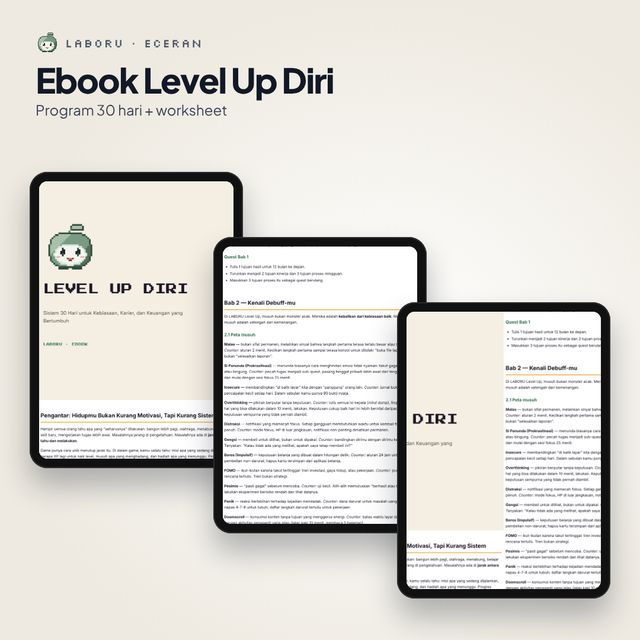
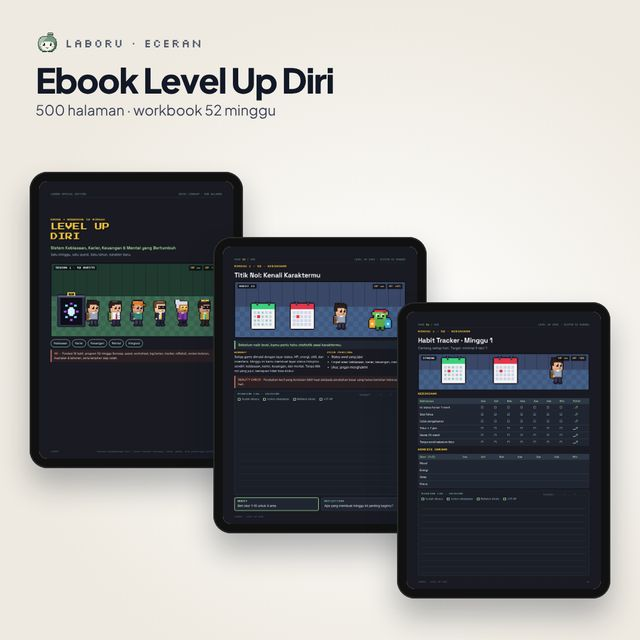
Landing: ebook FFZ & Level Up Diri kini 500 halaman lengkap
Claude-Session: https://claude.ai/code/session_0122FfDQZ8PtsKwzUo9nUhtx

diff --git a/index.html b/index.html
@@ -267,7 +267,7 @@ footer{background:#0a1120;color:#aeb9cf;font-size:13.5px;padding:28px 0 96px}foo
    <ul>
     <li><b>Semua isi Core</b> + aplikasi <b>PRO</b>: Financial Freedom, Weekly To-Do, Budget 50/30/20, Ruang Investasi</li>
     <li><b>LABO Asisten (Companion)</b>: peliharaan virtual interaktif</li>
-    <li><b>Ebook From Zero to Financial Freedom</b> Vol. 1 + Level Up Diri</li>
+    <li><b>2 ebook 500 halaman</b>: From Zero to Financial Freedom + Level Up Diri</li>
     <li><b>Company Preparation System</b>: hub + 390+ dokumen</li>
     <li><b>Company Improvement System</b> + roadmap 90 hari</li>
    </ul>
@@ -293,8 +293,8 @@ footer{background:#0a1120;color:#aeb9cf;font-size:13.5px;padding:28px 0 96px}foo
  <div class="reveal">
   <div class="k">Baru · Ebook pixel-art</div>
   <h2>From Zero to <em>Financial Freedom</em></h2>
-  <p class="lead">Ensiklopedia 500 halaman yang diterbitkan bertahap. Volume 1 membahas realitas hidup & uang dan jebakan finansial yang tidak terlihat — dengan simulasi angka, decision room, dan workbook.</p>
-  <ul style="padding-left:20px;margin:0 0 20px"><li>61 halaman, ilustrasi pixel art, siap dibaca di HP atau dicetak</li><li>Master Page Blueprint 500 halaman (PDF + Excel)</li><li>Volume berikutnya dikirim gratis ke pembeli</li></ul>
+  <p class="lead">Ensiklopedia 500 halaman, lengkap dalam satu PDF: dari realitas hidup & uang, membangun ulang diri, karyawan → self-employed → pemilik bisnis → investor, sampai rumus Freedom Ratio dan program 12 bulan.</p>
+  <ul style="padding-left:20px;margin:0 0 20px"><li>500 halaman pixel art, siap dibaca di HP atau dicetak</li><li>Simulasi angka, decision room, workbook di setiap bab</li><li>Program 12 bulan + field manual & glosarium</li></ul>
   <div class="cta"><button class="btn green" data-buy="r09" data-src="ebook">Beli ebook · <span data-price="r09">Rp49.000</span></button><a class="btn" href="#paket">Gratis di Ultimate</a></div>
  </div>
 </div></section>
@@ -343,12 +343,12 @@ footer{background:#0a1120;color:#aeb9cf;font-size:13.5px;padding:28px 0 96px}foo
 const ENTRY={entry_work:['Dashboard karier Excel + Google Sheets','180 template CV ATS (ID & EN)','180 cover letter (ID & EN)','15 bidang kerja × 6 latar belakang'],entry_habit:['LABORU Daily Management (Excel + Sheets)','Weekly To-Do, Habit Builder 10×31','Task Manager, Budget 50/30/20, Debt Payment','Panduan PDF'],entry_finance:['LABORU Wealth Builder 17 sheet','Financial X-Ray, arus kas, dana darurat','Debt recovery, aset & liabilitas, roadmap 12 bulan','File contoh terisi + Google Sheets']};
 const EPV={entry_work:'ENTRY_Work-Toolkit',entry_habit:'ENTRY_Habit-Toolkit',entry_finance:'ENTRY_Finance-Toolkit'};function setEntry(k){const pv=document.getElementById('entryPv');if(pv)pv.src='img/pv/'+EPV[k]+'.jpg';document.querySelectorAll('#entrySeg button').forEach(b=>b.classList.toggle('on',b.dataset.e===k));document.getElementById('entryList').innerHTML=ENTRY[k].map(x=>'<li>'+x+'</li>').join('');document.getElementById('entryBuy').dataset.buy=k}
 document.getElementById('entrySeg').addEventListener('click',e=>{const b=e.target.closest('button');if(b)setEntry(b.dataset.e)});setEntry('entry_work');
-const EC=[['r09','Ebook From Zero to Financial Freedom Vol. 1','R09_Ebook-From-Zero-to-Financial-Freedom','Ebook pixel-art tentang realitas uang & jebakan finansial.',['61 halaman: Part 00 Reality of Life & Money + Part 01 Invisible Trap','Studi kasus simulasi, decision room, workbook & mission log','Master Page Blueprint 500 halaman (PDF + Excel)','Volume berikutnya dikirim gratis'],1],
+const EC=[['r09','Ebook From Zero to Financial Freedom','R09_Ebook-From-Zero-to-Financial-Freedom','Ensiklopedia pixel-art 500 halaman: dari nol sampai bebas finansial.',['500 halaman lengkap, 10 part, 28 bab','Studi kasus simulasi, decision room, workbook & mission log','Program 12 bulan + weekly tracker','Field manual: checklist, KPI, glosarium'],1],
 ['r01','CV ATS Pack','R01_CV-ATS-Pack','CV satu kolom yang terbaca sistem ATS rekrutmen.',['180 template Word (.docx), Indonesia & Inggris','15 bidang kerja × 6 latar belakang (fresh graduate s/d manajer)','Panduan pengisian di setiap file','Bisa diedit di Word / Google Docs']],
 ['r02','Creative CV & Portfolio Pack','R02_Creative-CV-Portfolio-Pack','Tampil beda dengan CV kreatif & portofolio studi kasus.',['180 CV kreatif berwarna (ID & EN)','180 portfolio paper format before–after','15 bidang kerja, dengan contoh isi','Word (.docx), siap ekspor PDF']],
 ['r03','Cover Letter & Email Lamaran','R03_Cover-Letter-Email-Pack','Surat & email lamaran yang tinggal disesuaikan.',['180 cover letter formal (ID & EN)','180 email lamaran: subjek + isi siap kirim','15 bidang kerja × 6 latar belakang','Word (.docx)']],
 ['r05','LABO Asisten','R05_Labo-Companion-App','Teman virtual yang tumbuh bersama kebiasaan harianmu.',['Rawat Labo: beri makan, main, dan tidurkan','Cek-in mood & refleksi singkat','Level naik seiring kebiasaan baik','Android (APK), iPhone (Web App), Windows, macOS']],
-['r06','Ebook Level Up Diri','R06_Ebook-Level-Up-Diri','Program 30 hari untuk kebiasaan, karier, keuangan & mental.',['16 halaman PDF + worksheet siap cetak','Langkah kecil tiap hari, 4 area hidup','Dibaca di HP atau laptop']],
+['r06','Ebook Level Up Diri','R06_Ebook-Level-Up-Diri','Ebook + workbook 52 minggu untuk kebiasaan, karier, keuangan & mental.',['500 halaman: fondasi + program 52 minggu','Quest, worksheet, log harian & habit tracker tiap minggu','Review bulanan, kuartal & tahunan + lampiran siap cetak']],
 ['r07','Company Preparation System','R07_Company-Preparation-System','Sistem perusahaan siap pakai dalam satu hub.',['Company System Hub (buka di browser)','390+ dokumen: governance, struktur & peran, SOP, kontrol dokumen, HR, procurement, audit internal','Template kosong + contoh terisi + workflow','Roadmap implementasi 90 hari']],
 ['r08','Company Improvement System','R08_Company-Improvement-System','Turunkan downtime, naikkan efisiensi secara terukur.',['Downtime Tracker + ROI Calculator (Excel)','Production Efficiency Playbook + worked example','7 tracker: KPI, CAPA, tenggat, dokumen, SOP, procurement, supplier','Panduan Bahasa Indonesia + 15 AI prompt bisnis']]];
 const P=LABORU_PRODUCTS,fmt=n=>n.toLocaleString('id-ID',{maximumFractionDigits:1});

diff --git a/paket.html b/paket.html
@@ -88,7 +88,7 @@ ul{margin:0;padding-left:20px;font-size:15px}li{margin:4px 0}
    <div class="price"><b data-price="ultimate">Rp289.000</b><s data-value="ultimate">Rp792.000</s><em data-save="ultimate">hemat 64%</em></div>
    <div class="pd" data-pd="ultimate">≈ Rp792/hari selama setahun</div>
    <div class="ex"><img src="img/icon.png" alt=""><div>Game eksklusif versi <span>PRO</span> + Financial Freedom</div></div>
-   <ul><li>Semua isi Core + Weekly To-Do, Budget 50/30/20, Ruang Investasi</li><li>LABO Asisten (Companion) (peliharaan virtual)</li><li>2 ebook: From Zero to Financial Freedom + Level Up Diri</li><li>Company Preparation & Improvement System</li></ul><p class="fl"><b>+ PRO:</b> game rat race Financial Freedom · Weekly To-Do · Budget 50/30/20 · Ruang Investasi</p>
+   <ul><li>Semua isi Core + Weekly To-Do, Budget 50/30/20, Ruang Investasi</li><li>LABO Asisten (Companion) (peliharaan virtual)</li><li>2 ebook 500 halaman: From Zero to Financial Freedom + Level Up Diri</li><li>Company Preparation & Improvement System</li></ul><p class="fl"><b>+ PRO:</b> game rat race Financial Freedom · Weekly To-Do · Budget 50/30/20 · Ruang Investasi</p>
    <button class="btn dk" data-pick="ultimate">Checkout Ultimate</button>
   </div>
  </div>
